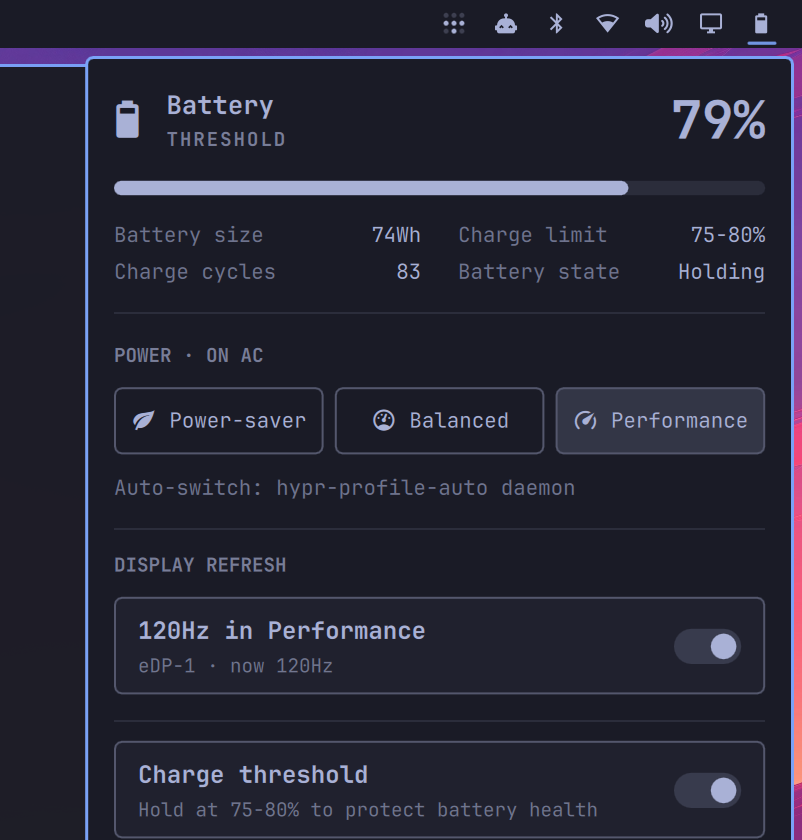
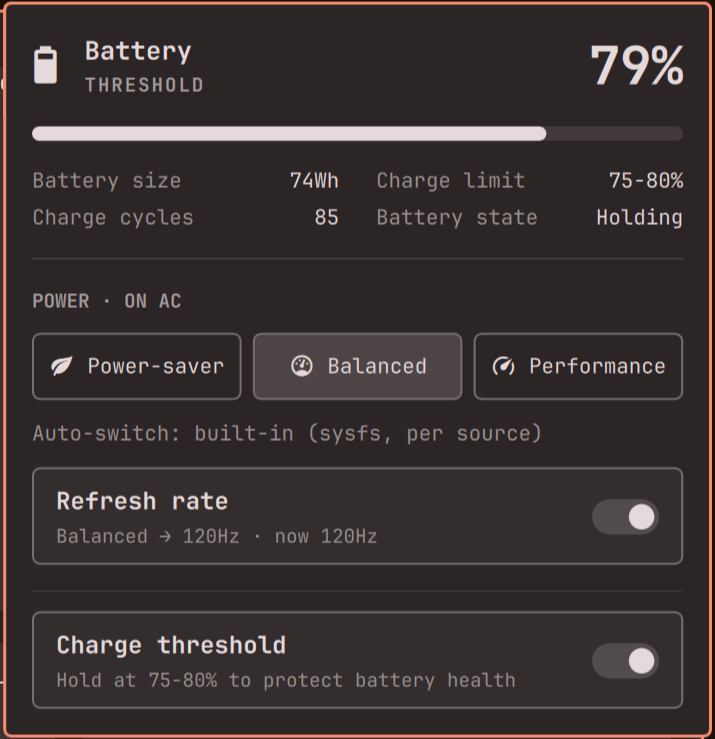
Rewrite README from zero, refresh screenshots

diff --git a/README.md b/README.md
@@ -2,109 +2,59 @@
 
 Per-source power profiles, per-profile Hz, charge cap, and drain history — in the bar.
 
-![Battery bar pill and open panel](preview.png)
+![Battery panel](preview.png)
 
 Needs: Omarchy · laptop with UPower battery · no network, no sudo.
 
 ## What you get
 
-- **Per-source power profiles** — one pill per profile, remembered separately for AC and battery.
-- **Per-profile 120Hz toggle** — each profile keeps its own refresh rate.
+- **Per-source power profiles** — one pill per profile, remembered separately for AC and battery. Auto-switch built in.
+- **Per-profile refresh rate** — each profile keeps its own 60/120Hz. Desired vs live in one line.
 - **Charge-threshold toggle** — hold at the firmware limit to protect battery health.
-- **Drain sparkline** — 10 minutes of live watts plus a health line, no database.
-- **Instant plug/unplug reaction** — UPower signal plus kernel uevents, with sysfs arbitration when UPower goes stale.
+- **Drain sparkline** — last 10 minutes of watts, no database.
+- **No daemon** — the panel owns profile restore and Hz apply. Nothing runs in the background.
 
-![Bar pill with percentage](docs/images/bar-pill.png)
+## Install
+
+```
+omarchy plugin add https://github.com/tymurbogach/battery.git --enable
+omarchy bar move cyberdyne.battery --section right --index 99
+omarchy restart shell
+```
+
+## Use
 
 | Click | Action |
 |---|---|
 | Left click pill | Open / close the panel |
 | Right click pill | Toggle percentage |
 | Click profile pill | Set profile for the current source |
-| Refresh rate toggle | Set refresh rate for the active profile |
+| Refresh rate toggle | Set rate for the active profile |
 | Charge threshold toggle | Hold charge below the firmware limit |
 
-## Screenshots
+- The header shows the active source (`POWER · ON AC` / `ON BATTERY`).
+- Refresh reads `Balanced → 120Hz · now 120Hz`: desired left, live right, `applying…` while a change lands.
+- Threshold shows only when the hardware reports one. Its state reads on every open.
+- The graph records only while discharging.
+- `STALE` means two failed refreshes in a row. `SYSFS ▸ …` means UPower disagrees and sysfs won.
 
-| Profiles + refresh | Charge threshold |
+## Settings
+
+Inline on the bar entry:
+
+| Key | Default |
 |---|---|
-| ![Profile pills and refresh toggle](docs/images/profiles-hz.png) | ![Charge threshold toggle](docs/images/threshold.png) |
-
-| Drain history | |
-|---|---|
-| ![Power draw sparkline and health line](docs/images/sparkline.png) | |
-
-## Requirements
-
-Required (standard on Omarchy): `omarchy-battery-status`, `omarchy-power-present`, `omarchy-powerprofiles-list`, `omarchy-powerprofiles-set`, `omarchy-system-stats`, `hyprctl`, `gdbus`, `upower`, `udevadm`, `bash`.
-
-No background daemon. The panel owns profile restore and Hz apply. No `~/.local/bin` file is needed.
-
-## Install
-
-1. Add the plugin:
-
-```
-omarchy plugin add https://github.com/tymurbogach/battery.git --enable
-```
-
-2. Put it on the bar at the far right end (replaces `omarchy.power`):
-
-```
-omarchy bar move cyberdyne.battery --section right --index 99
-```
-
-Any large index lands last. To place it elsewhere, pick your own anchor instead:
-
-```
-omarchy bar move cyberdyne.battery --after omarchy.audio
-omarchy bar move cyberdyne.battery --section right --index 0
-```
-
-3. Restart the shell and look right:
-
-```
-omarchy restart shell
-```
-
-## Usage
-
-- Click the bar pill to open the panel, click a profile pill to set it for the current source.
-- The header shows which source is active (`POWER · ON AC` or `POWER · ON BATTERY`).
-- Flip the Refresh rate toggle to set the rate for the active profile. It lives in the `POWER` section under the profile pills and reads `Balanced → 120Hz · now 120Hz` (desired left of the arrow, live right of it, `applying…` while a change lands). Both this toggle and the future display plugin edit the same shared file plus the same per-profile key, so they stay in sync.
-- Flip Charge threshold only when the row is visible (hardware must report a threshold).
-- The bottom graph needs the panel open for a few samples before it draws. It records only while discharging.
-- If data goes stale, the panel shows a `STALE` banner with the last error instead of trusting old values.
-- If sysfs disagrees with UPower, the banner shows `SYSFS ▸ … (UPower stale)` and sysfs wins. If the probe fails, the last valid source stays active.
-
-## Configure
-
-Settings live inline on the bar entry (via `updateEntryInline`):
-
-| Key | Default | Purpose |
-|---|---|---|
-| `showPercentage` | `false` | Show `79%` on the bar pill |
-| `hz_power-saver` | `60` | Refresh rate for power-saver |
-| `hz_balanced` | `120` | Refresh rate for balanced |
-| `hz_performance` | `120` | Refresh rate for performance |
-
-Legacy keys `refreshAc` / `refreshBatt` (v0.1.0) are ignored since v0.2.0. They stay orphaned in `shell.json` and cause no error. Delete them by hand if you want a clean entry.
+| `showPercentage` | `false` |
+| `hz_power-saver` | `60` |
+| `hz_balanced` | `120` |
+| `hz_performance` | `120` |
 
 ## How it works
 
-- **Profiles**: `omarchy-powerprofiles-set <ac|battery> <profile>` on manual pick (writes the native state file). On cable change the panel itself runs `omarchy-powerprofiles-set <ac|battery>` (restore remembered profile, sysfs signal, no UPower, no daemon).
-- **Instant reaction**: plug/unplug wakes the panel through the UPower `onBatteryChanged` signal plus kernel uevents (`udevadm monitor --subsystem-match=power_supply`, panel-open only, 500ms debounce). Every trigger runs one-shot `omarchy-power-present` (sysfs). Exit `0` means AC and exit `1` means battery. Other exits preserve the last valid source and show an error.
-- **Refresh**: the toggle lives in the `POWER` section under the profile pills and stores 60/120 per profile in settings and in the shared file `~/.local/state/omarchy/toggles/hypr/refresh-override-hz` (single desired rate, same contract the future display plugin uses: manual change writes file plus `hz_<active>`, profile switch copies `hz_<new>` to the file, equal values are ignored). The panel applies it directly with `hyprctl eval hl.monitor`, preserving the live geometry, scale, and position. No polling daemon. A catch-up burst (immediate plus 2.5s plus 8s) refreshes the live `now` rate after open, event, or apply. The lid flag `internal-monitor-disable.conf` and a disabled `eDP-1` are never forced.
-- **Threshold**: two plain-argv steps, no shell interpolation. First `upower -e` resolves the battery object path (prefers `battery_BAT0`, skips HID++ and line_power). Then `gdbus call` against `org.freedesktop.UPower` for `ChargeThresholdEnabled` read and `EnableChargeThreshold` write with that path. The toggle stays disabled with `Reading state…` until the first successful read lands, and the state is re-read on every open.
-- **Draw history**: reuses the `rate` field from every `omarchy-battery-status --shell` sample while effectively discharging (sysfs-arbitrated), in a rolling 600s window capped at 200 samples.
-- **Polling**: CLI text fields refresh every 15s while the panel is open as safety net for missed signals. Monitor rate has no permanent poll: one immediate read plus a catch-up burst (2.5s, 8s) after open, cable event, file change, or apply. A 10s watchdog kills hung queries so the next tick recovers. Battery and profile failures track independently. Either source marks data `STALE` after 2 failures.
-- **Settings**: `showPercentage`, `hz_power-saver`, `hz_balanced`, `hz_performance`. Stored inline on the bar entry via `updateEntryInline`.
-
-## Known issues
-
-- **Stale UPower AC record**: on this hardware UPower's `line_power_AC` can stop updating. The widget uses the sysfs probe for source-dependent UI, profile writes, and drain history. UPower can still report stale battery telemetry. A one-time `sudo systemctl restart upower` re-reads sysfs; if it recurs, it is an upstream UPower/udev event-delivery issue.
-
-This listing is not a security audit or certification. The plugin runs unsandboxed inside `omarchy-shell`; every dependency, process, and file write above is public review surface.
+- Cable change restores the remembered profile via `omarchy-powerprofiles-set` on a sysfs signal. No UPower, no daemon.
+- Hz intent lives in `~/.local/state/omarchy/toggles/hypr/refresh-override-hz` plus the `hz_*` keys (shared contract with the future display plugin). The panel applies it with `hyprctl eval`.
+- The live rate is re-read in a short burst after open, event, or apply. No permanent poll.
+- Threshold uses UPower D-Bus (`EnableChargeThreshold`). A 10s watchdog kills hung queries.
 
 ## Update
 
@@ -119,26 +69,7 @@ omarchy restart shell
 omarchy plugin remove cyberdyne.battery
 ```
 
-Re-add `omarchy.power` to the bar if you want the stock widget back. Removal leaves the native `~/.local/state/omarchy/powerprofiles/` files untouched (they belong to Omarchy, not to this plugin).
-
-Plugin-owned state: `~/.local/state/omarchy/toggles/hypr/refresh-override-hz` (one file, the per-profile Hz override). Retention: kept across reinstalls so your per-profile rates survive. Removal: the plugin never deletes it silently. Confirm, then run once if you no longer want per-profile rates:
-
-```
-rm -f ~/.local/state/omarchy/toggles/hypr/refresh-override-hz
-```
-
-(without it, the next profile switch recreates it from that profile's rate).
-
-## Migrate from the old daemons
-
-Versions before v0.8.0 used `~/.local/bin/hypr-profile-auto` and `~/.local/bin/hypr-refresh-auto` started from `~/.config/hypr/autostart.lua`. They are no longer needed and must be removed, or they fight the panel every 5s:
-
-```
-pkill -f hypr-profile-auto; pkill -f hypr-refresh-auto
-rm -f ~/.local/bin/hypr-profile-auto ~/.local/bin/hypr-refresh-auto
-```
-
-Then delete their two `exec_on_start` lines in `~/.config/hypr/autostart.lua` and restart the shell. The old `ac-watch.log` can be deleted.
+Native profile files stay untouched. Delete `refresh-override-hz` by hand if you want the rates gone too.
 
 ## Changelog
 
